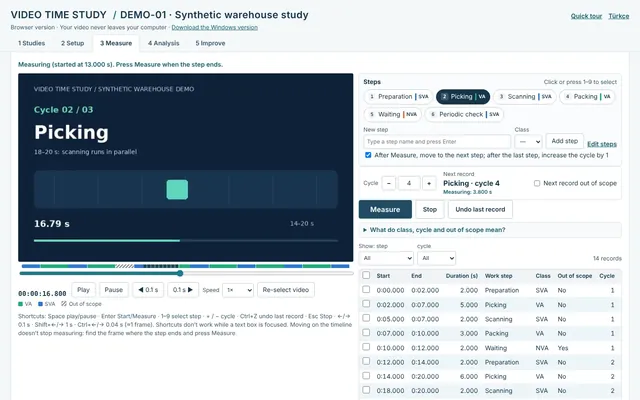
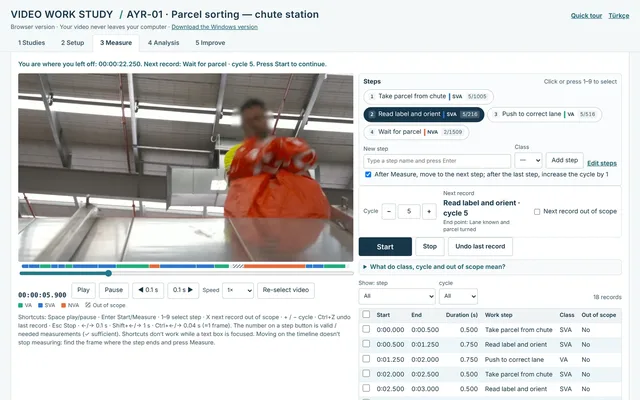
Gerçek ekran görüntüleri: Video İş Etüdü galerisi ve kart, Duruş kart ve paylaşım görseli
İş Etüdü galerisi sentetik demo yerine gerçek depo videosundaki etütten (ölçüm,
analiz, Yamazumi, adım kartları, iş örneklemesi, çalışmalar). Duruş kartı ve og
görseli çizim örnek kare yerine gerçek analiz karesi.

Claude-Session: https://claude.ai/code/session_01QKvCnv1Wn1mJ5ppqnwhAKi

diff --git a/src/data/projects.ts b/src/data/projects.ts
@@ -164,9 +164,12 @@ export const PROJECTS: Project[] = [
     ],
     tech: ['JavaScript', 'IndexedDB', 'C#', 'WPF', '.NET 8', 'SQLite', 'Excel (OpenXML)', 'Cloudflare Workers', 'GitHub Actions'],
     shots: [
-      { src: '/img/video-zaman-etudu/olcum.webp', srcEn: '/img/video-zaman-etudu/olcum-en.webp', w: 1440, h: 900, alt: { tr: 'Ölçüm sekmesi: ölçüm video zamanından alınır, her Ölç bir sonraki adımın başlangıcı olur; birden çok kayıt birlikte düzeltilebilir', en: 'Measure tab: times come from the video position, each Measure starts the next step; several records can be fixed together' } },
-      { src: '/img/video-zaman-etudu/analiz.webp', srcEn: '/img/video-zaman-etudu/analiz-en.webp', w: 1440, h: 900, alt: { tr: 'Analiz sekmesi: etüt onayı, tek Çıktı al menüsü, katlı ayar özeti ve Özet, Adım tablosu, Çevrimler, Dağılım alt sekmeleri', en: 'Analysis tab: study approval, a single Export menu, a folded settings summary and Summary, Step table, Cycles, Distribution sub-tabs' } },
-      { src: '/img/video-zaman-etudu/calismalar.webp', srcEn: '/img/video-zaman-etudu/calismalar-en.webp', w: 1440, h: 900, alt: { tr: 'Çalışmalar: yeni etütte kullanılacak yalın araçlar seçilir; listede yeterlilik ve onay durumu görünür', en: 'Studies: choose the lean tools a new study will use; the list shows sufficiency and approval status' } },
+      { src: '/img/video-zaman-etudu/olcum.webp', srcEn: '/img/video-zaman-etudu/olcum-en.webp', w: 1440, h: 900, alt: { tr: 'Ölçüm: gerçek bir kargo ayrıştırma videosunda adım adım zamanlama; adım düğmelerinde yeterlilik, zaman çizgisinde sınıf renkleri (görüntü: Pexels, yüzler bulanık)', en: 'Measure: step-by-step timing on real parcel-sorting footage; sufficiency on the step buttons, class colours on the timeline (footage: Pexels, faces blurred)' } },
+      { src: '/img/video-zaman-etudu/analiz.webp', srcEn: '/img/video-zaman-etudu/analiz-en.webp', w: 1440, h: 900, alt: { tr: 'Analiz: 5 çevrimde standart süre 4,955 sn, takt 4 sn ile doluluk %124, gereken gözlem sayısı ve çevrim değişkenliği', en: 'Analysis: over 5 cycles the standard time is 4.955 s, 124% of a 4 s takt, with required observations and cycle variation' } },
+      { src: '/img/video-zaman-etudu/yamazumi.webp', srcEn: '/img/video-zaman-etudu/yamazumi-en.webp', w: 1440, h: 900, alt: { tr: 'Hat dengeleme (Yamazumi): tek operatörün yükü taktı bekleme yüzünden aşıyor', en: 'Line balancing (Yamazumi): the single operator overruns takt because of waiting' } },
+      { src: '/img/video-zaman-etudu/adim-kartlari.webp', srcEn: '/img/video-zaman-etudu/adim-kartlari-en.webp', w: 1440, h: 900, alt: { tr: 'Adım kartları: videodan seçilmiş kare, bitiş anı, israf türü ve iyileştirme fikri', en: 'Step cards: a frame from the video, end point, waste type and improvement idea' } },
+      { src: '/img/video-zaman-etudu/is-orneklemesi.webp', srcEn: '/img/video-zaman-etudu/is-orneklemesi-en.webp', w: 1440, h: 900, alt: { tr: 'İş örneklemesi: tekstil kontrol masasında 40 rastgele gözlem, kategori payları ve güven aralıkları', en: 'Work sampling: 40 random observations at a textile inspection table with shares and confidence intervals' } },
+      { src: '/img/video-zaman-etudu/calismalar.webp', srcEn: '/img/video-zaman-etudu/calismalar-en.webp', w: 1440, h: 900, alt: { tr: 'Çalışmalar: gerçek videolarla yapılan zaman etüdü, ikinci gözlemci ölçümü ve iş örneklemesi', en: 'Studies: the time study on real footage, the second-observer timing and the work sampling' } },
     ],
     og: '/img/video-zaman-etudu/og.jpg',
     ogEn: '/img/video-zaman-etudu/og-en.jpg',
